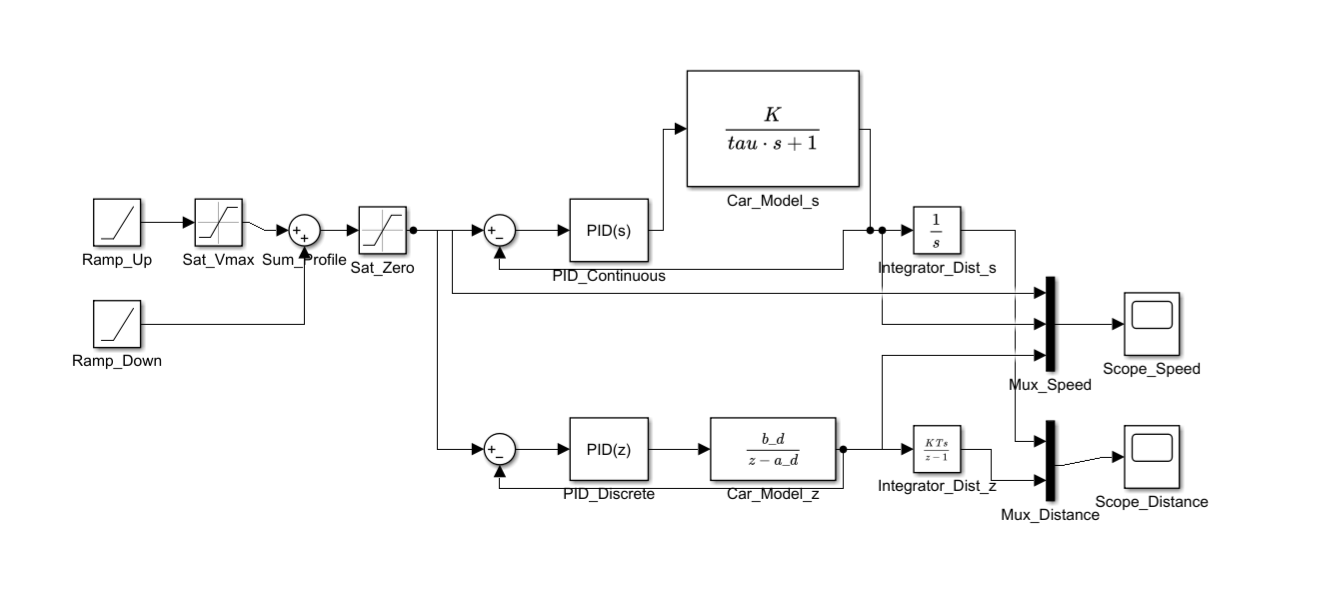
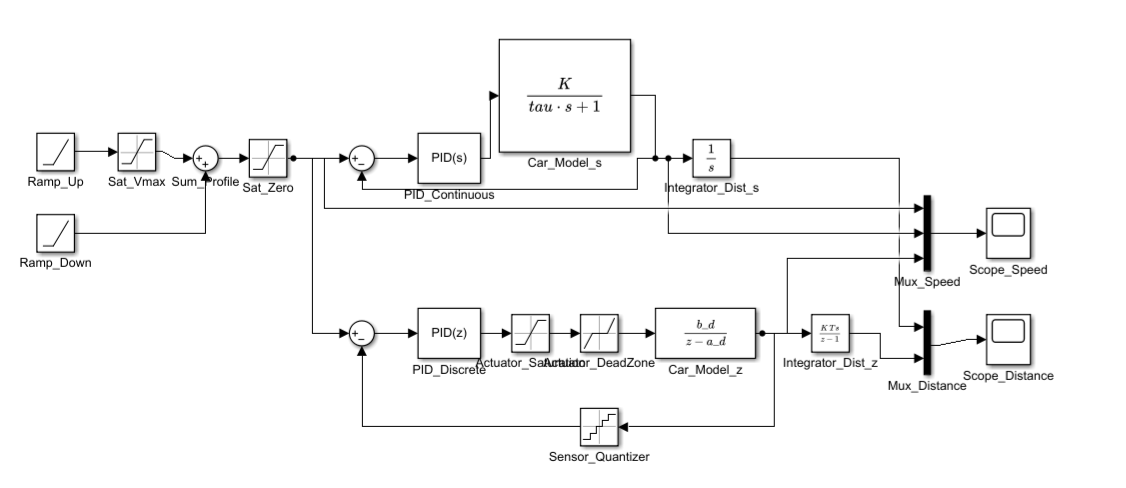
Activity 2.6: Simulink model with actuator and sensor models
New Figure 3 with saturation, dead zone and quantizer in the discrete
loop; section 4.1 describes the three blocks.

Claude-Session: https://claude.ai/code/session_01P9LYFw4L4PXVrJWhnfbHvM

Changed region(s): [[0.0, 0.0615, 0.9325, 0.9529]]

diff --git a/Activity 2.6/Activity-2.6_A01832776.tex b/Activity 2.6/Activity-2.6_A01832776.tex
@@ -217,8 +217,14 @@ It runs the continuous and the discrete loop side by side.
         \texttt{Ramp\_Down} starts at \(T - t_d\) with \(-v_{max}/t_d\).
         Their sum, limited at zero, is the trapezoidal speed profile.
   \item \textbf{Continuous loop:} \texttt{PID(s)} and the plant \(G(s) = K/(\tau s + 1)\).
+        It stays ideal, without actuator and sensor, as a reference.
   \item \textbf{Discrete loop:} \texttt{PID(z)} and the plant with zero-order hold,
         \(G(z) = b_d/(z - a_d)\) with \(a_d = e^{-T_s/\tau} = 0.670\) and \(b_d = K(1 - a_d) = 2.504\).
+  \item \textbf{Actuator model} (discrete loop): \texttt{Actuator\_Saturation} limits the duty to \(\pm 100\,\%\).
+        \texttt{Actuator\_DeadZone} removes \(\pm 7\,\%\), the dead zone of BTS7960 and motor.
+  \item \textbf{Sensor model} (discrete loop): \texttt{Sensor\_Quantizer} in the speed feedback.
+        The encoder gives whole counts per sample, so the speed comes in steps of
+        \(k_x/T_s = 3.18\,\mathrm{mm/s}\).
   \item \textbf{Distance:} integrators \(1/s\) and \(T_s/(z-1)\).
   \item \textbf{Scopes:} speed and distance of both loops.
 \end{itemize}
@@ -226,7 +232,7 @@ It runs the continuous and the discrete loop side by side.
 \begin{figure}[H]
   \centering
   \includegraphics[width=\linewidth]{Simulink model.png}
-  \caption{Continuous and discrete control loop in Simulink.}
+  \caption{Simulink model: continuous loop (top), discrete loop with actuator and sensor models (bottom).}
   \label{fig:simulink}
 \end{figure}
 
